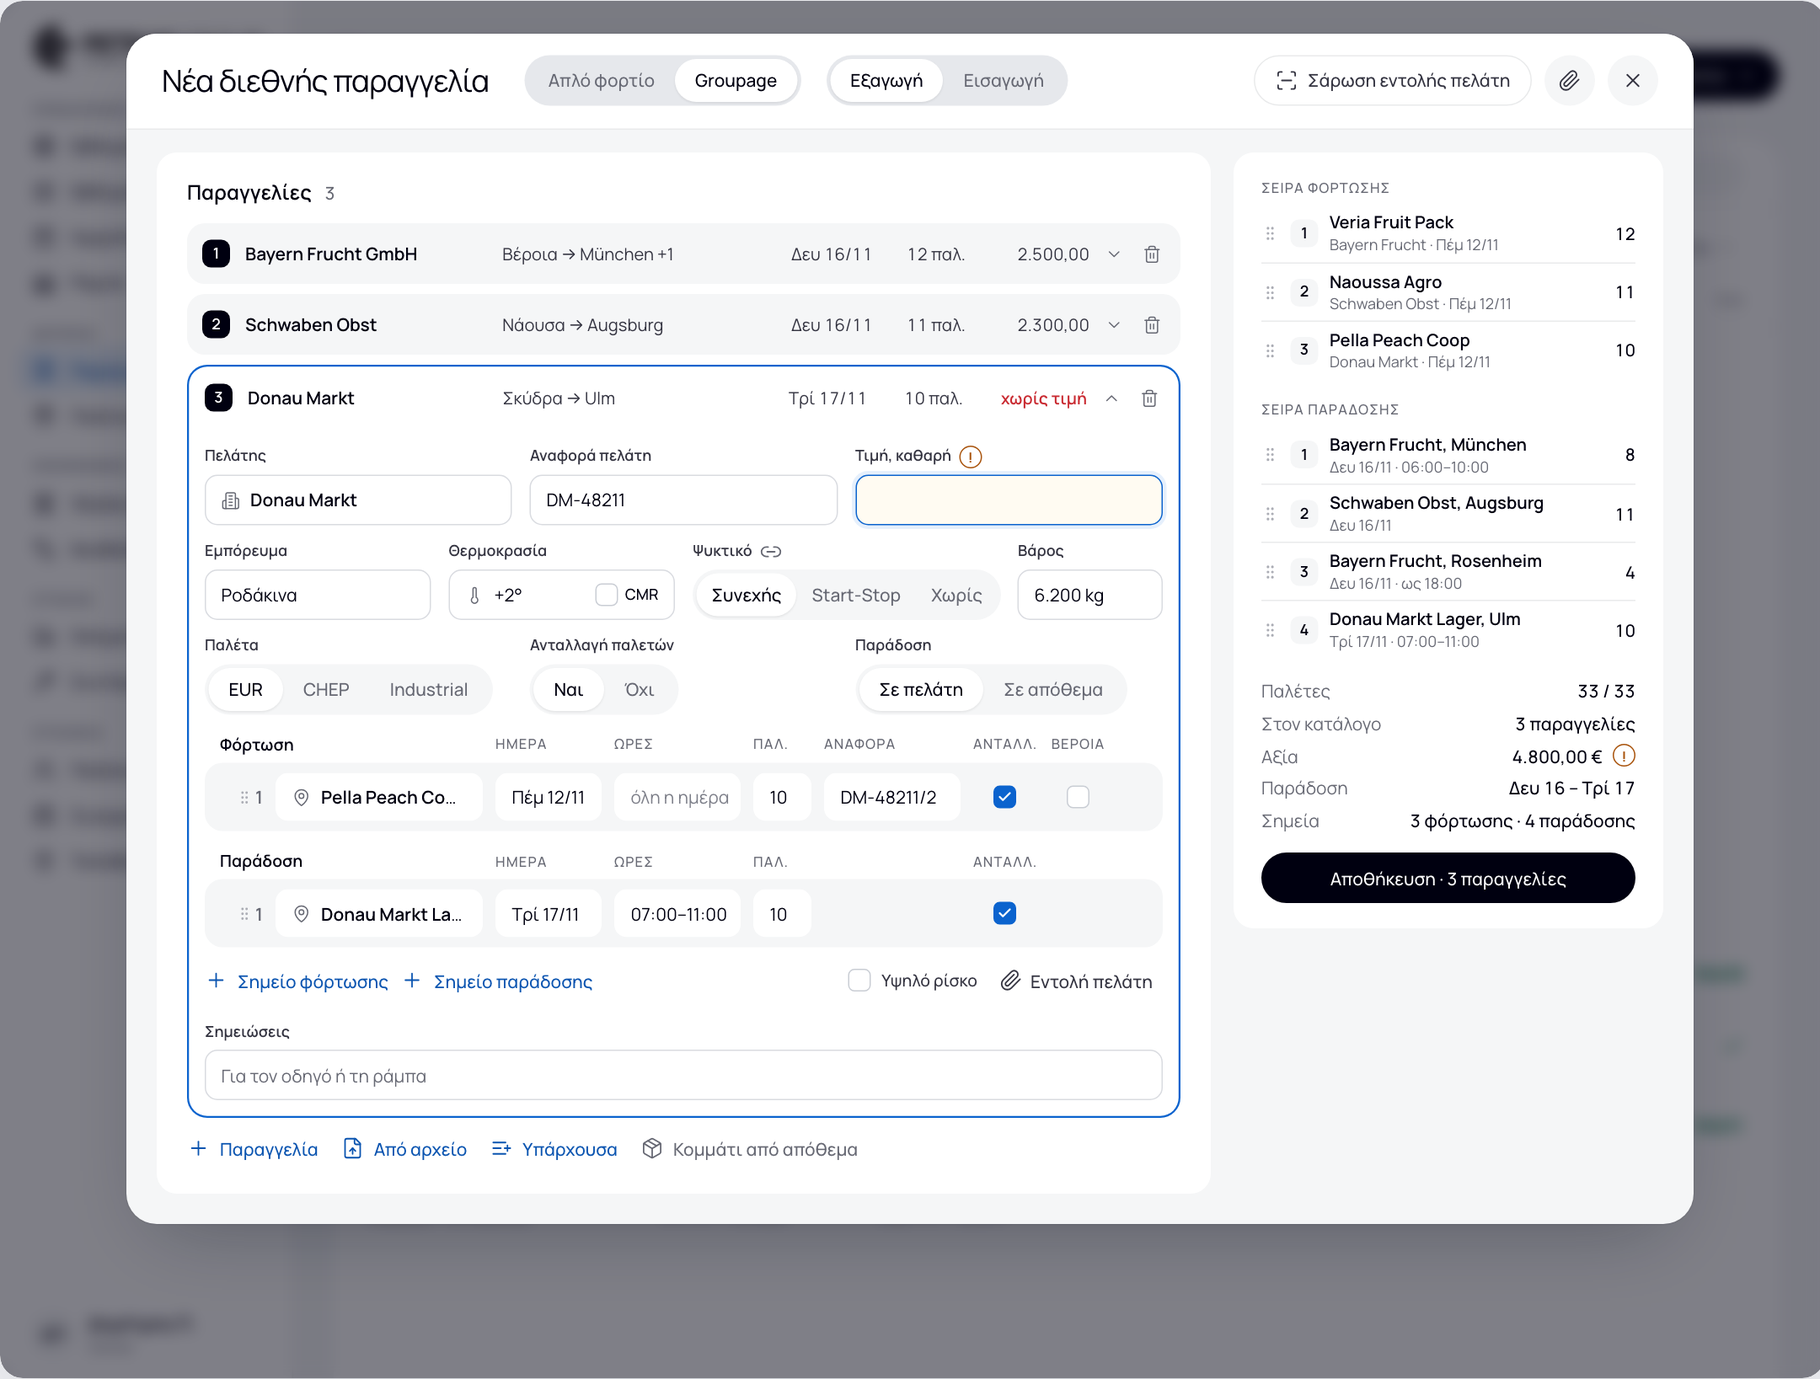
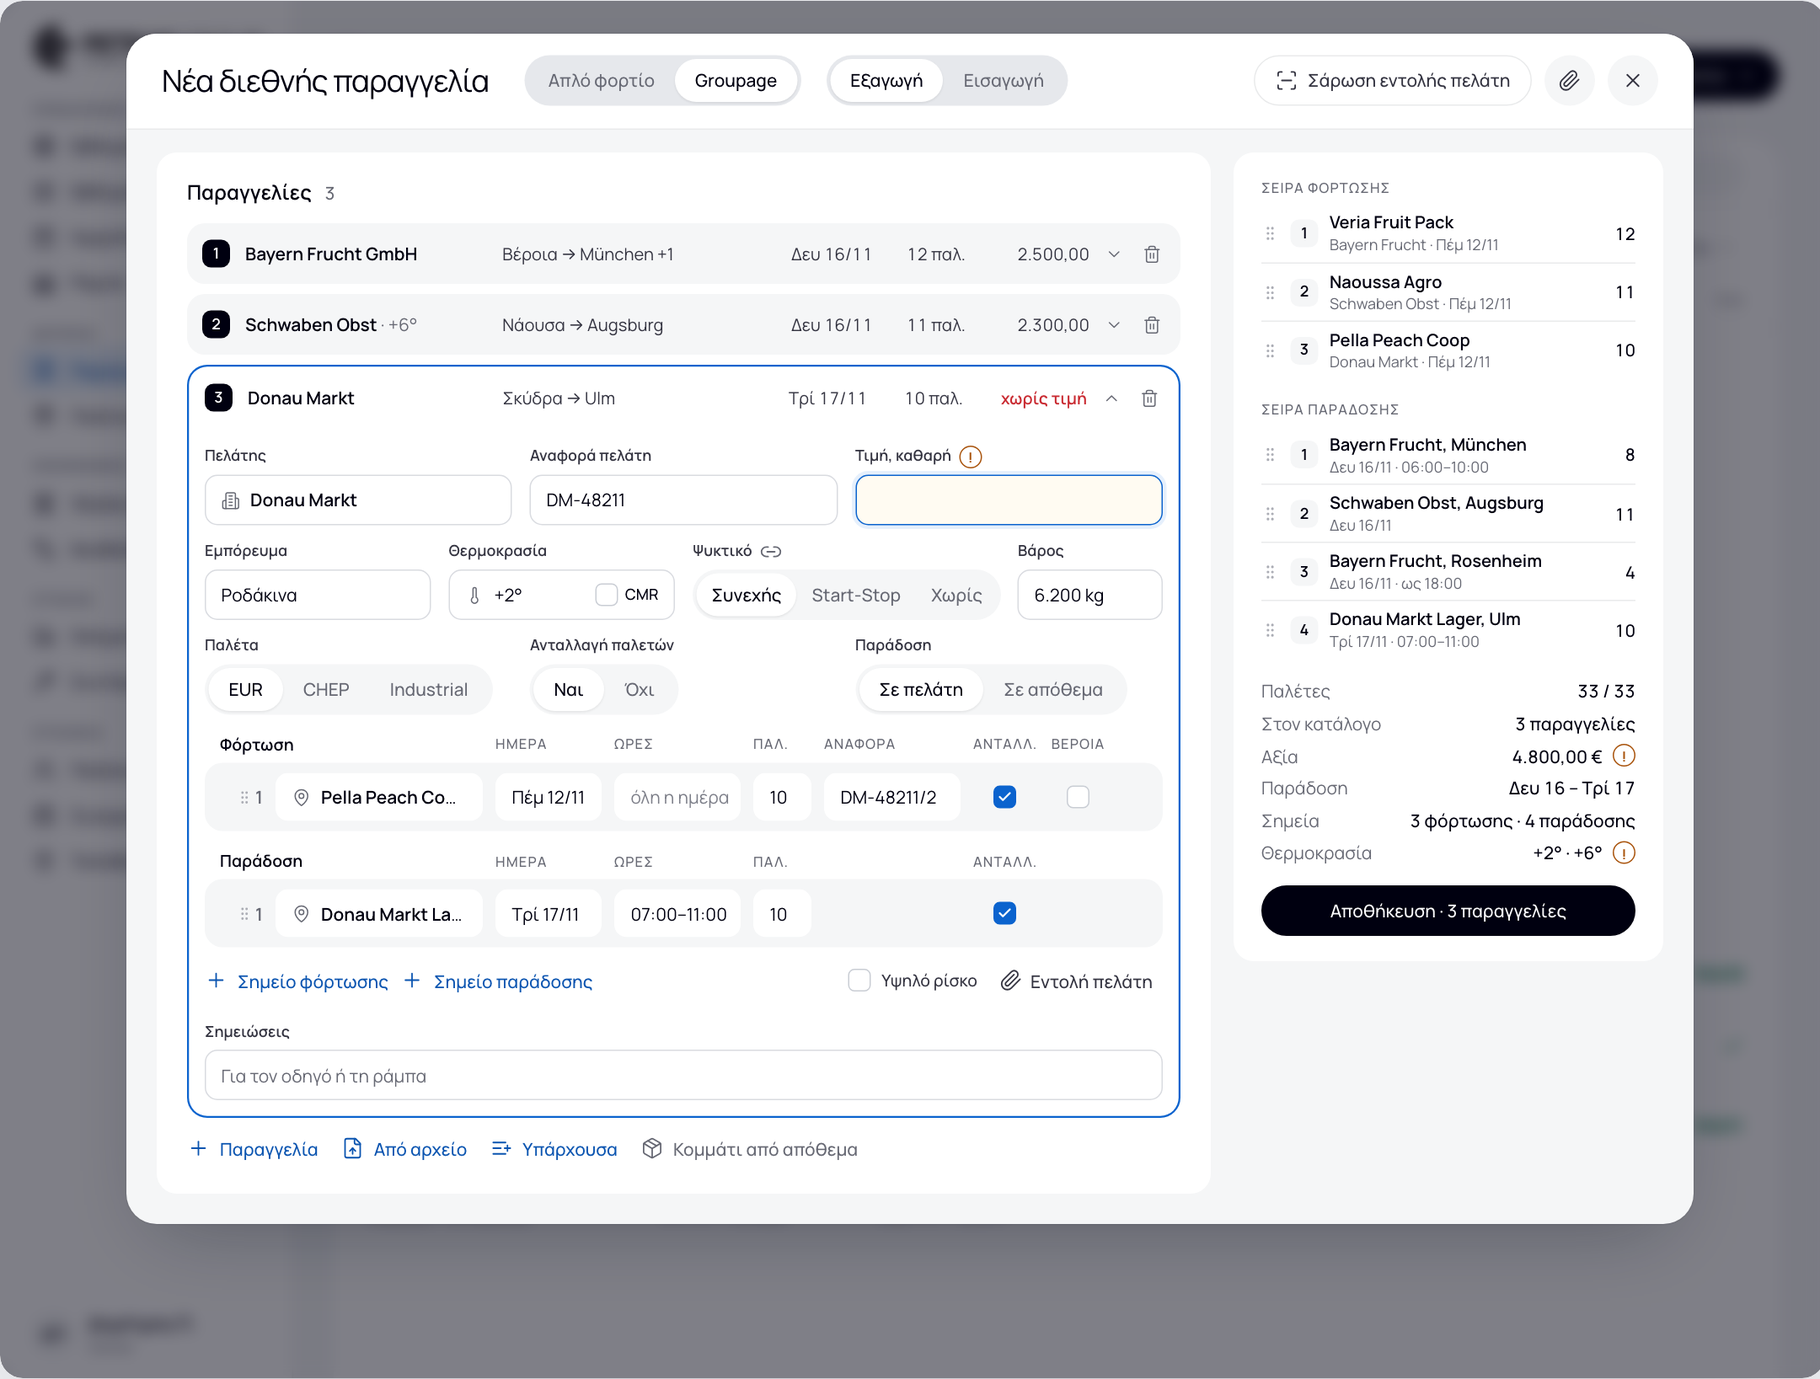
docs(redesign): owner's answers of 15/11 on the groupage form — partner fee per truck, a Veroia point is written by its supplier, no pre-order inside a groupage, trip order follows the points, duplicate is per order only, two temperatures with a partition

Changed region(s): [[0.6824, 0.5919, 0.8995, 0.6854]]

diff --git a/docs/design/redesign-2026-11/index.html b/docs/design/redesign-2026-11/index.html
@@ -1006,7 +1006,7 @@ $('f3').innerHTML=ordersHTML(0)+`<div class="veil"></div><div class="sheet">
     <div style="display:flex;gap:10px;align-items:center"><button class="add" style="margin:0">${ic('plus')}Σημείο φόρτωσης</button><button class="add" style="margin:0">${ic('plus')}Σημείο παράδοσης</button><span class="sp" style="flex:1"></span><span class="cb"><i></i>Υψηλό ρίσκο</span><button class="tbtn" title="Εντολή του πελάτη για αυτή την παραγγελία">${ic('paperclip')}Εντολή πελάτη</button></div><div class="row" style="margin-top:14px">${fld('Σημειώσεις','<span style="color:var(--help)">Για τον οδηγό ή τη ράμπα</span>')}</div></div></div>
  </div>
  <div class="card sum" style="border-radius:16px;gap:0"><p class="lbl">Σειρά φόρτωσης</p>
-  <div class="sql">${sq(1,'Naoussa Fruit Pack','Τρί 17/11 · 08:00–12:00',20)}${sq(2,'Pella Peach Coop','Τρί 17/11',12)}</div>
+  <div class="sql">${sq(1,'Naoussa Fruit Pack <span style="font-weight:400;color:var(--help)">(Veroia Cross Dock)</span>','Τρί 17/11 · 08:00–12:00',20)}${sq(2,'Pella Peach Coop <span style="font-weight:400;color:var(--help)">(Veroia Cross Dock)</span>','Τρί 17/11',12)}</div>
   <p class="lbl">Σειρά παράδοσης</p>
   <div class="sql">${sq(1,'Tirol Obst Lager, Innsbruck','Παρ 20/11 · 06:00–10:00',20)}${sq(2,'Alpen Frische Hall','Παρ 20/11',12)}</div>
   <dl class="chkv" style="margin-bottom:16px"><dt>Παλέτες</dt><dd class="num">32 / 33</dd>
@@ -1023,7 +1023,7 @@ $('f6').innerHTML=ordersHTML(0)+`<div class="veil"></div><div class="sheet">
  <div class="fgrid wide"><div class="card" style="align-self:start;border-radius:16px">
   <div class="fsec"><h3>Παραγγελίες <span class="num" style="font-weight:500;color:var(--help);font-size:14px">3</span></h3>
    ${ol(1,'Bayern Frucht GmbH','Βέροια → München +1','Δευ 16/11',12,'2.500,00')}
-   ${ol(2,'Schwaben Obst','Νάουσα → Augsburg','Δευ 16/11',11,'2.300,00')}
+   ${ol(2,'Schwaben Obst <span style="font-weight:400;color:var(--help)">· +6°</span>','Νάουσα → Augsburg','Δευ 16/11',11,'2.300,00')}
    <div class="oe">${ol(3,'Donau Markt','Σκύδρα → Ulm','Τρί 17/11',10,'<span class="np">χωρίς τιμή</span>',1)}
     <div class="row g12"><div style="grid-column:span 4">${fld('Πελάτης',`${ic('building-2')}<b style="font-weight:600">Donau Markt</b>`)}</div><div style="grid-column:span 4">${fld('Αναφορά πελάτη','DM-48211')}</div><div style="grid-column:span 4"><label class="fld"><span>Τιμή, καθαρή <i class="nb a" data-t="Λείπει. Αποθηκεύεται και χωρίς τιμή· θα φανεί στο «Χωρίς τιμή».">!</i></span><div class="inp miss focus"></div></label></div></div>
     <div class="row g12"><div style="grid-column:span 3">${fld('Εμπόρευμα','Ροδάκινα')}</div><div style="grid-column:span 3">${fld('Θερμοκρασία',`${ic('thermometer')}+2°<span class="sp"></span><span class="cb" title="Η θερμοκρασία όπως στο CMR" style="font-size:12px;gap:5px"><i></i>CMR</span>`)}</div><label class="fld" style="grid-column:span 4"><span>Ψυκτικό <span title="Ίδιο για όλο το groupage" style="display:flex;color:var(--help)">${ic('link-2')}</span></span><div class="seg tight"><b class="on">Συνεχής</b><b>Start-Stop</b><b>Χωρίς</b></div></label><div style="grid-column:span 2">${fld('Βάρος','6.200 kg')}</div></div>
@@ -1039,7 +1039,7 @@ $('f6').innerHTML=ordersHTML(0)+`<div class="veil"></div><div class="sheet">
   <div class="sql">${sq(1,'Veria Fruit Pack','Bayern Frucht · Πέμ 12/11',12)}${sq(2,'Naoussa Agro','Schwaben Obst · Πέμ 12/11',11)}${sq(3,'Pella Peach Coop','Donau Markt · Πέμ 12/11',10)}</div>
   <p class="lbl">Σειρά παράδοσης</p>
   <div class="sql">${sq(1,'Bayern Frucht, München','Δευ 16/11 · 06:00–10:00',8)}${sq(2,'Schwaben Obst, Augsburg','Δευ 16/11',11)}${sq(3,'Bayern Frucht, Rosenheim','Δευ 16/11 · ως 18:00',4)}${sq(4,'Donau Markt Lager, Ulm','Τρί 17/11 · 07:00–11:00',10)}</div>
-  <dl class="chkv" style="margin-bottom:16px"><dt>Παλέτες</dt><dd class="num">33 / 33</dd><dt>Στον κατάλογο</dt><dd class="num">3 παραγγελίες</dd><dt>Αξία</dt><dd class="num">4.800,00 € <i class="nb a" data-t="Μία παραγγελία χωρίς τιμή δεν μετρά.">!</i></dd><dt>Παράδοση</dt><dd class="num">Δευ 16 – Τρί 17</dd><dt>Σημεία</dt><dd class="num">3 φόρτωσης · 4 παράδοσης</dd></dl>
+  <dl class="chkv" style="margin-bottom:16px"><dt>Παλέτες</dt><dd class="num">33 / 33</dd><dt>Στον κατάλογο</dt><dd class="num">3 παραγγελίες</dd><dt>Αξία</dt><dd class="num">4.800,00 € <i class="nb a" data-t="Μία παραγγελία χωρίς τιμή δεν μετρά.">!</i></dd><dt>Παράδοση</dt><dd class="num">Δευ 16 – Τρί 17</dd><dt>Σημεία</dt><dd class="num">3 φόρτωσης · 4 παράδοσης</dd><dt>Θερμοκρασία</dt><dd class="num">+2° · +6° <i class="nb a" data-t="Δύο θερμοκρασίες: χώρισμα μέσα στον θάλαμο.">!</i></dd></dl>
   <div><button class="pill b" style="width:100%;height:40px;justify-content:center">Αποθήκευση · 3 παραγγελίες</button></div>
  </div></div></div>`;
 // the two order lists can be dragged; numbers follow

diff --git a/docs/design/redesign-2026-11/groupage-from-the-form.md b/docs/design/redesign-2026-11/groupage-from-the-form.md
@@ -173,10 +173,10 @@
 
 ### Τι αποφασίζει ο owner πριν χτιστεί (με τη σειρά του ελέγχου)
 
-1. Σημείο φόρτωσης μέσω Βέροιας: στη σειρά φόρτωσης γράφεται ο τόπος του προμηθευτή ή η Βέροια; Το διεθνές φορτηγό δεν πάει ποτέ στον προμηθευτή.
+1. ~~Σημείο φόρτωσης μέσω Βέροιας.~~ **Αποφασίστηκε (owner 15/11):** στη σειρά φόρτωσης γράφεται ο προμηθευτής, με «(Veroia Cross Dock)» σε παρένθεση δίπλα του.
 2. ~~Παραγγελία μέσα σε groupage που παραδίδεται σε απόθεμα.~~ **Αποφασίστηκε (owner 15/11): «Ναι».** Μια παραγγελία του groupage μπορεί να μένει στην αποθήκη ως παρτίδα. Συνέπεια: ο κανόνας της βάσης που σήμερα αρνείται παρτίδα μέσα σε φορτίο πρέπει να αλλάξει όταν χτιστεί· είναι αλλαγή βάσης και περνά από έγκριση του owner τότε.
 3. ~~Ανταλλαγή με μόνο ναι ή όχι.~~ **Αποφασίστηκε (owner 15/11): «Ναι, όλες».** Με «Ναι» σε ένα σημείο μετρούν όλες οι παλέτες του σημείου. Μένει ανοιχτό μόνο τι γίνεται με παλιά σημεία που γράφουν μέρος (π.χ. «10 από 30»): η πρόταση είναι να κρατούν τον αριθμό τους όπως γράφτηκε και να μην αλλάζουν σιωπηλά όταν κάποιος ανοίξει και αποθηκεύσει την παραγγελία.
-4. Κόμιστρο συνεργάτη σε groupage: ανά φορτηγό ή ανά παραγγελία; Τι παίρνει μια τέταρτη παραγγελία που προστίθεται;
+4. ~~Κόμιστρο συνεργάτη σε groupage.~~ **Αποφασίστηκε (owner 15/11): «ανά φορτηγό».** Ένα κόμιστρο για όλο το groupage· μια παραγγελία που προστίθεται δεν φέρνει δεύτερο. Συνέπεια: σήμερα το κόμιστρο γράφεται ολόκληρο σε κάθε παραγγελία, άρα αυτό πρέπει να αλλάξει όταν χτιστεί, και να ελεγχθεί τι έχει ήδη μετρηθεί.
 5. ~~Παραγγελία που προστίθεται σε groupage με φορτηγό.~~ **Αποφασίστηκε (owner 15/11): «Ναι, αμέσως».** Παίρνει το ίδιο φορτηγό, οδηγό, ταίρι εισαγωγής και κατάσταση με τις άλλες, και όταν το φορτίο είναι ήδη στον δρόμο. Έτσι κλείνει ο πρώτος κίνδυνος του ελέγχου (φορτίο σπασμένο σε δύο δρομολόγια).
 6. ~~Το «×» σε παραγγελία μέσα στο groupage.~~ **Αποφασίστηκε (owner 15/11): «σβήνεται τελείως. Θα είναι πολύ περίπλοκο το αντίθετο. Θα μπορούσε ο χρήστης να τη σβήσει και, αν θέλει, μετά να την ανεβάσει απλά σαν απλή παραγγελία.»** Στο σχέδιο το σημάδι έγινε κάδος, με τίτλο «Διαγραφή παραγγελίας». Για παραγγελία που έχει ήδη αποθηκευτεί η διαγραφή ζητά επιβεβαίωση που την ονομάζει με πελάτη και διαδρομή, όπως σήμερα. Δρόμος «βγάλε από το groupage χωρίς σβήσιμο» δεν υπάρχει.
 7. ~~Δύο παραγγελίες που υπάρχουν ήδη και οι δύο.~~ **Αποφασίστηκε (owner 15/11): «ναι»** στο «Υπάρχουσα»: τέταρτο κουμπί στη φόρμα του groupage, που διαλέγει από λίστα παραγγελία ήδη καταχωρημένη. Η παραγγελία κρατά αριθμό, έγγραφα και τιμή. Η λίστα δείχνει πρώτα όσες ταιριάζουν και κρατά τις υπόλοιπες επιλέξιμες.
@@ -184,14 +184,14 @@
 9. Κομμάτι από απόθεμα σε φορτίο που δίνεται σε συνεργάτη: επιτρέπεται; Σήμερα ο πίνακας το αρνείται.
 10. Κομμάτι από απόθεμα σε groupage εξαγωγής: ναι ή όχι;
 11. Παρτίδες σε ελληνικές αποθήκες στη λίστα κομματιών: ναι ή όχι;
-12. Σειρά σημείων στο δρομολόγιο και στη μισθοδοσία: εκεί φαίνονται παραγγελίες, όχι σημεία. Αρκεί;
-13. Pre-order μέσα σε groupage: πρώτα μετατροπή, ή επιτρέπεται ως έχει;
+12. ~~Σειρά σημείων στο δρομολόγιο.~~ **Αποφασίστηκε (owner 15/11):** «μπορεί να αλλάξουν σε groupage και να μην είναι ανά παραγγελία». Το δρομολόγιο ενός groupage ακολουθεί τη σειρά των σημείων, όχι των παραγγελιών.
+13. ~~Pre-order μέσα σε groupage.~~ **Αποφασίστηκε (owner 15/11): δεν μπαίνει.** Πρώτα γίνεται παραγγελία.
 14. ~~Σπασμένη παραγγελία και groupage.~~ **Αποφασίστηκε (owner 15/11):** το groupage είναι ισότιμο φορτίο· σπάει και παίρνει ρότα όπως κάθε άλλο (βλ. «Το groupage ως ισότιμο φορτίο»).
-15. «Διπλασιασμός» ολόκληρου groupage (ίδιοι πελάτες κάθε εβδομάδα): ναι ή όχι;
+15. ~~«Διπλασιασμός» ολόκληρου groupage.~~ **Αποφασίστηκε (owner 15/11): δεν υπάρχει.** Διπλασιάζεται μόνο παραγγελία.
 16. Ποια είδη αρχείων πρέπει να διαβάζονται, όχι μόνο να επισυνάπτονται (Excel, email);
 17. Ένα αρχείο με πολλές παραγγελίες: μία παραγγελία ανά αρχείο ή μία ανά παραγγελία που βρέθηκε;
 18. Αρχείο με άλλη κατεύθυνση από του groupage: προειδοποίηση και μένει, ή βγαίνει ως απλό φορτίο;
-19. Ψυκτικό «ένα για όλα» σε παλιό groupage όπου τα μέλη διαφωνούν: ποιο κερδίζει;
+19. Ψυκτικό «ένα για όλα» σε παλιό groupage όπου οι παραγγελίες γράφουν διαφορετική λειτουργία ψυκτικού: ποια φαίνεται όταν ανοίξει στη νέα φόρμα; **Σημείωση owner 15/11:** «κάποιες φορές έχουμε 2 στοιχεία με χώρισμα εντός θαλάμου». Η θερμοκρασία μένει ανά παραγγελία, άρα δύο θερμοκρασίες στο ίδιο groupage γράφονται κανονικά· το σχέδιο τις δείχνει στη σύνοψη με σημάδι «χώρισμα μέσα στον θάλαμο». Ανοιχτό: αν με χώρισμα μπορεί να διαφέρει και η λειτουργία του ψυκτικού ανά θάλαμο.
 
 ### Τι μπορεί να γράψει λάθος στοιχεία αν χτιστεί βιαστικά (τα πέντε πρώτα)
 
